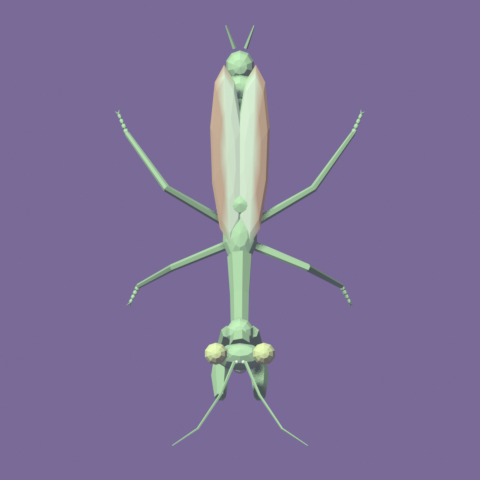
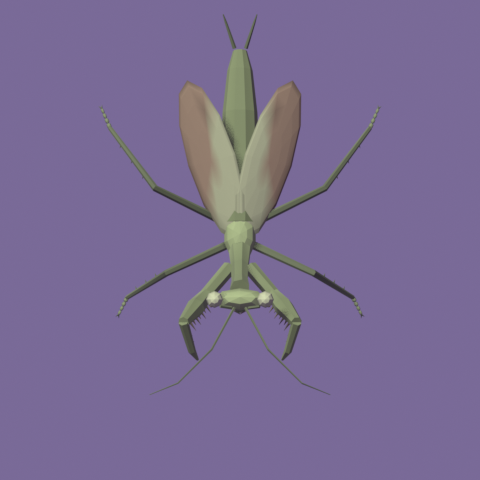
Critters v3: Orion-accurate female rainbow stag beetle, scarier realistic mantis
- Beetle matched to photos of Orion: short black mandibles, black spiny legs, dark bronze
  pronotum with green edges, deep metallic green shell with a lengthwise magenta/teal streak
- Mantis: muted olive/brown, threat pose with raised spread forelegs and dark spines, angular
  head with small hard eyes and brow ridges, veined half-lifted wings, smooth ringed abdomen

diff --git a/ArtSource/build_critters.py b/ArtSource/build_critters.py
@@ -190,136 +190,161 @@ class Critter:
 
 
 def rainbow_stag_beetle():
-    """Phalacrognathus muelleri (male), like Orion. Metallic shell that runs green -> gold -> copper ->
-    red -> violet toward the head, with an iridescent shift across the curve of every plate."""
+    """Phalacrognathus muelleri, female, matched to photos of Orion: short black mandibles and black legs,
+    a bronze-copper pronotum with green edges, and wing covers that are metallic green at the rim with
+    magenta-pink and teal-blue streaks running lengthwise down the middle, shifting with the light."""
     c = Critter("Critter_RainbowStagBeetle")
 
-    def irid(base_shift=0.0, sat=0.9, dark_seam=False):
-        def color(p, n):
-            t = min(1.0, max(0.0, (p.y + 0.5) / 1.15))
-            hue = (0.34 - 0.5 * t + base_shift + 0.07 * n.x * (1 if p.x >= 0 else -1) - 0.05 * n.z) % 1.0
-            val = 0.55 + 0.4 * max(0.0, n.z) + 0.1 * abs(n.x)
-            if dark_seam and abs(p.x) < 0.012:
-                val *= 0.55
-            r, g, b = colorsys.hsv_to_rgb(hue, sat, min(1.0, val))
-            return (r, g, b)
-        return color
+    def hsv(h, s_, v):
+        return colorsys.hsv_to_rgb(h % 1.0, max(0.0, min(1.0, s_)), max(0.0, min(1.0, v)))
 
-    shell = irid(dark_seam=True)
-    plate = irid(0.0, 0.85)
-    leg = irid(-0.05, 0.75)
-    underside = rgb("#2a1b33")
+    def elytra(p, n):
+        side = abs(p.x) / 0.245                       # 0 at the seam, 1 at the rim
+        light = 0.28 + 0.62 * max(0.0, n.z) ** 1.5    # deep metallic: dark sides, bright top
+        if side > 0.82 or p.y < -0.42:                # green rim all the way round
+            return hsv(0.34 + 0.02 * n.x, 0.95, light)
+        # one strong magenta streak with a teal-blue edge on a green shell, running lengthwise
+        band = side + 0.05 * math.sin(p.y * 7)
+        stops = [(0.0, 0.32, 0.9), (0.2, 0.36, 0.95), (0.34, 0.52, 0.9), (0.46, 0.88, 0.85),
+                 (0.62, 0.92, 0.8), (0.74, 0.4, 0.95), (1.0, 0.34, 0.95)]
+        for (a, ha, sa), (b, hb, sb) in zip(stops, stops[1:]):
+            if a <= band <= b:
+                t = (band - a) / (b - a)
+                dh = ((hb - ha + 0.5) % 1.0) - 0.5
+                return hsv(ha + dh * t, sa + (sb - sa) * t, light)
+        return hsv(0.33, 0.85, light)
 
-    # wing covers (elytra): two halves with a seam, rounded at the back, a little flattened on top
-    c.blob((0, -0.14, 0.16), (0.245, 0.37, 0.13), shell, M_SHINY, seg=18, rings=10)        # one domed shell
-    c.tube([(0, 0.2, 0.25), (0, -0.2, 0.29), (0, -0.46, 0.18)], 0.008, irid(0.02, 0.9, False), M_SHINY)   # the seam
-    c.blob((0, -0.12, 0.09), (0.23, 0.36, 0.07), underside, seg=12, rings=6)              # belly
-    # scutellum: the little triangle between the wing covers and the pronotum
-    c.blob((0, 0.17, 0.235), (0.04, 0.035, 0.012), plate, M_SHINY, seg=6, rings=4)
-    # pronotum: broad, rounded at the sides, with a thin raised rim
-    c.blob((0, 0.27, 0.19), (0.235, 0.12, 0.095), plate, M_SHINY, seg=16, rings=8)
-    c.tube([(-0.2, 0.22, 0.17), (-0.235, 0.28, 0.18), (-0.21, 0.35, 0.17)], 0.01, plate, M_SHINY)
-    c.tube([(0.2, 0.22, 0.17), (0.235, 0.28, 0.18), (0.21, 0.35, 0.17)], 0.01, plate, M_SHINY)
-    # head: wide and flat, cheeks flaring behind the eyes, a ridge (canthus) over each eye
-    c.blob((0, 0.44, 0.17), (0.225, 0.11, 0.072), plate, M_SHINY, seg=14, rings=8)
+    def pronotum(p, n):
+        light = 0.4 + 0.55 * max(0.0, n.z)
+        edge = abs(p.x) > 0.17
+        return hsv(0.3 if edge else 0.08 + 0.03 * n.x, 0.9 if edge else 0.7, light * 0.8)   # dark bronze, green edges
+
+    def head(p, n):
+        return hsv(0.22 + 0.05 * n.x, 0.85, 0.25 + 0.5 * max(0.0, n.z))                # green-gold
+
+    black = (0.05, 0.045, 0.05)
+    sheen_black = lambda p, n: tuple(0.04 + 0.12 * max(0.0, n.z) for _ in range(3))
+
+    # wing covers: one domed oval with a raised seam, slightly squarer shoulders than the back
+    c.blob((0, -0.12, 0.16), (0.245, 0.38, 0.13), elytra, M_SHINY, seg=20, rings=12)
+    c.tube([(0, 0.2, 0.255), (0, -0.2, 0.29), (0, -0.48, 0.17)], 0.007, lambda p, n: hsv(0.33, 0.9, 0.5), M_SHINY)
+    c.blob((0, -0.12, 0.08), (0.23, 0.36, 0.07), black, seg=12, rings=6)                # dark belly
+    c.blob((0, 0.17, 0.235), (0.035, 0.03, 0.01), pronotum, M_SHINY, seg=6, rings=4)     # scutellum
+    # pronotum: wide, rounded, a touch narrower than the shell
+    c.blob((0, 0.28, 0.18), (0.215, 0.12, 0.09), pronotum, M_SHINY, seg=16, rings=8)
+    # head: small and flat (females have a small head), eyes at the sides
+    c.blob((0, 0.42, 0.15), (0.13, 0.08, 0.055), head, M_SHINY, seg=12, rings=6)
     for sx in (1, -1):
-        c.blob((sx * 0.17, 0.41, 0.16), (0.06, 0.07, 0.055), plate, M_SHINY)          # cheek flare
-        c.blob((sx * 0.185, 0.47, 0.175), (0.038, 0.04, 0.036), (0.06, 0.04, 0.07), M_SHINY)   # eye
-        c.tube([(sx * 0.13, 0.5, 0.2), (sx * 0.2, 0.48, 0.21), (sx * 0.22, 0.44, 0.2)], 0.012, plate, M_SHINY)  # canthus
-        # mandibles: long, sweeping forward and out, then curling up and in; a row of inner teeth
-        mand = [(sx * 0.07, 0.5, 0.165), (sx * 0.15, 0.6, 0.18), (sx * 0.18, 0.72, 0.21), (sx * 0.15, 0.84, 0.27),
-                (sx * 0.08, 0.92, 0.36), (sx * 0.03, 0.93, 0.42)]
-        c.tube(mand, [0.05, 0.045, 0.038, 0.03, 0.02, 0.008], irid(0.04, 0.9), M_SHINY, sides=7)
-        for (y, z, size) in ((0.66, 0.2, 0.03), (0.76, 0.23, 0.028), (0.85, 0.28, 0.022)):
-            x = sx * (0.14 if y < 0.7 else 0.13 if y < 0.8 else 0.1)
-            c.spike((x, y, z), (x - sx * size * 1.6, y + size * 0.4, z + size * 0.3), 0.014, irid(0.04, 0.9), M_SHINY)
-        # elbowed antenna: long first segment, then bead segments, then a 3-leaf club
-        base = Vector((sx * 0.16, 0.5, 0.19))
-        elbow = base + Vector((sx * 0.1, 0.08, 0.05))
-        c.tube([base, elbow], [0.012, 0.01], leg, M_SHINY)
+        c.blob((sx * 0.125, 0.43, 0.15), (0.03, 0.032, 0.03), black, M_SHINY)          # eyes
+        # short, stout black mandibles curving inward, with a tooth
+        c.tube([(sx * 0.06, 0.48, 0.14), (sx * 0.1, 0.55, 0.15), (sx * 0.07, 0.61, 0.16), (sx * 0.02, 0.63, 0.16)],
+               [0.03, 0.026, 0.018, 0.008], sheen_black, M_SHINY, sides=6)
+        c.spike((sx * 0.09, 0.56, 0.15), (sx * 0.05, 0.58, 0.17), 0.012, sheen_black, M_SHINY)
+        # black elbowed antennae with a small club
+        base = Vector((sx * 0.1, 0.47, 0.17))
+        elbow = base + Vector((sx * 0.07, 0.07, 0.04))
+        c.tube([base, elbow], [0.009, 0.008], sheen_black)
         tip = elbow
         for k in range(4):
-            nxt = tip + Vector((sx * 0.025, 0.022, 0.005))
-            c.blob(tip.lerp(nxt, 0.5), (0.01, 0.014, 0.01), leg, M_SHINY, seg=6, rings=4)
+            nxt = tip + Vector((sx * 0.02, 0.02, 0.0))
+            c.blob(tip.lerp(nxt, 0.5), (0.008, 0.011, 0.008), sheen_black, seg=6, rings=4)
             tip = nxt
-        for k in range(3):   # lamellae: the fanned club
-            c.blob(tip + Vector((sx * (0.012 + k * 0.016), 0.012, 0)), (0.008, 0.026, 0.02), leg, M_SHINY,
-                   seg=6, rings=4, rot=(0, 0, sx * 25))
-
-    # legs: front ones dig (toothed tibia), middle/hind ones have small spines; each ends in tarsi + claws
+        for k in range(3):
+            c.blob(tip + Vector((sx * (0.01 + k * 0.013), 0.01, 0)), (0.007, 0.02, 0.015), sheen_black, seg=6, rings=4,
+                   rot=(0, 0, sx * 25))
+    # black legs: front tibiae toothed for digging, spines on the others
     for sx in (1, -1):
-        c.jointed_leg([(sx * 0.13, 0.25, 0.11), (sx * 0.24, 0.32, 0.13), (sx * 0.33, 0.4, 0.06), (sx * 0.36, 0.5, 0.0)],
-                      [0.03, 0.032, 0.024, 0.016], leg, M_SHINY, foot=(sx * 0.02, 0.1, -0.005),
-                      spines=[(2, 4, 0.03, (sx * 1, 0.3, 0))])
-        c.jointed_leg([(sx * 0.15, 0.02, 0.1), (sx * 0.29, 0.05, 0.14), (sx * 0.4, 0.0, 0.05), (sx * 0.45, -0.04, 0.0)],
-                      [0.03, 0.03, 0.022, 0.015], leg, M_SHINY, foot=(sx * 0.06, -0.08, -0.005),
-                      spines=[(2, 2, 0.018, (sx * 1, -0.2, 0))])
-        c.jointed_leg([(sx * 0.15, -0.16, 0.1), (sx * 0.29, -0.2, 0.14), (sx * 0.38, -0.32, 0.05), (sx * 0.42, -0.4, 0.0)],
-                      [0.03, 0.03, 0.022, 0.015], leg, M_SHINY, foot=(sx * 0.04, -0.1, -0.005),
-                      spines=[(2, 2, 0.018, (sx * 1, -0.2, 0))])
+        c.jointed_leg([(sx * 0.12, 0.26, 0.11), (sx * 0.23, 0.33, 0.12), (sx * 0.31, 0.42, 0.05), (sx * 0.33, 0.52, 0.0)],
+                      [0.028, 0.03, 0.022, 0.014], sheen_black, M_SHINY, foot=(sx * 0.02, 0.09, -0.005),
+                      spines=[(2, 5, 0.03, (sx * 1, 0.3, 0))])
+        c.jointed_leg([(sx * 0.15, 0.02, 0.1), (sx * 0.28, 0.06, 0.13), (sx * 0.39, 0.0, 0.05), (sx * 0.44, -0.05, 0.0)],
+                      [0.028, 0.028, 0.02, 0.013], sheen_black, M_SHINY, foot=(sx * 0.06, -0.08, -0.005),
+                      spines=[(2, 3, 0.02, (sx * 1, -0.2, 0))])
+        c.jointed_leg([(sx * 0.15, -0.16, 0.1), (sx * 0.28, -0.22, 0.13), (sx * 0.37, -0.34, 0.05), (sx * 0.41, -0.43, 0.0)],
+                      [0.028, 0.028, 0.02, 0.013], sheen_black, M_SHINY, foot=(sx * 0.04, -0.1, -0.005),
+                      spines=[(2, 3, 0.02, (sx * 1, -0.2, 0))])
     return c.finish()
 
 
-def praying_mantis(name="Critter_Mantis", body="#6fbf5e", light="#a9df8f", eye="#a9d85a", edge="#8a6a3f"):
-    """Chinese mantis (Tenodera sinensis) style: triangular head with corner eyes, long neck (prothorax),
-    spiny folded grabbing forelegs, leathery wing covers with a brown leading edge over a segmented
-    abdomen, long thin walking legs with feet, and cerci at the tail."""
+def praying_mantis(name="Critter_Mantis"):
+    """Chinese mantis in a threat pose: reared up on its walking legs, raptorial forelegs raised and
+    spread with dark spines showing, wings half-lifted. Muted olive-green and brown, angular head,
+    small hard eyes, veined wing covers. Meant to look a little scary, not cute."""
     c = Critter(name)
-    body, light, eye, edge = rgb(body), rgb(light), rgb(eye), rgb(edge)
-    dark = (0.08, 0.1, 0.06)
+    olive, olive_dk, tan, brown, spine = rgb("#5a7230"), rgb("#3b4a22"), rgb("#7d8a4a"), rgb("#5e4529"), rgb("#2a2416")
 
-    def shaded(col):
+    def shaded(col, dark=0.5):
         def color(p, n):
-            k = 0.78 + 0.28 * max(0.0, n.z)
+            k = dark + (1.05 - dark) * max(0.0, n.z) + 0.1 * abs(n.x)
             return tuple(min(1.0, ch * k) for ch in col)
         return color
 
-    b = shaded(body)
-    # abdomen: 7 segments, widest in the middle, drooping slightly toward the tip
-    c.segmented((0, -0.08, 0.27), (0, -0.66, 0.2), (0.07, 0.05), (0.06, 0.045), 7, b, droop=0.02)
-    c.segmented((0, -0.08, 0.27), (0, -0.38, 0.26), (0.09, 0.085), (0.075, 0.07), 3, b)
-    for sx in (1, -1):   # cerci: two little tail feelers
-        c.tube([(sx * 0.02, -0.68, 0.19), (sx * 0.05, -0.76, 0.21)], [0.008, 0.003], b)
-    # wing covers (tegmina): long and narrow, folded flat over the back, brown along the outer edge
+    b = shaded(olive)
+    bd = shaded(olive_dk, 0.45)
+    # abdomen: one smooth tapering body, with thin dark rings marking the 7 segments
+    c.tube([(0, -0.06, 0.3), (0, -0.25, 0.28), (0, -0.45, 0.25), (0, -0.6, 0.21), (0, -0.67, 0.19)],
+           [0.06, 0.07, 0.062, 0.045, 0.025], b, sides=10)
+    for k in range(1, 7):
+        t = k / 7
+        y = -0.06 - 0.61 * t
+        z = 0.3 - 0.11 * t
+        r = 0.06 + 0.01 * math.sin(t * math.pi) - 0.035 * t * t
+        c.tube([(0, y + 0.006, z), (0, y - 0.006, z)], r + 0.004, bd, sides=10)
+    for sx in (1, -1):
+        c.tube([(sx * 0.02, -0.68, 0.19), (sx * 0.05, -0.77, 0.21), (sx * 0.06, -0.8, 0.22)], [0.008, 0.005, 0.002], bd)
+    # wing covers half-lifted and spread (threat display), with veins and a brown leading edge
     for sx in (1, -1):
         def wing(p, n, sx=sx):
-            outer = abs(p.x) > 0.055
-            return edge if outer else (light if n.z > 0.5 else body)
-        c.blob((sx * 0.045, -0.3, 0.335), (0.06, 0.32, 0.018), wing, rot=(-4, 0, sx * 2), seg=10, rings=6)
-    # thorax that the legs hang from
-    c.blob((0, -0.02, 0.27), (0.065, 0.11, 0.06), b)
-    # long neck (prothorax), rising toward the head, with a bump where the forelegs attach
-    c.tube([(0, 0.06, 0.29), (0, 0.2, 0.37), (0, 0.32, 0.47), (0, 0.38, 0.53)], [0.045, 0.035, 0.032, 0.038], b, sides=7)
-    c.blob((0, 0.33, 0.48), (0.05, 0.05, 0.04), b)
-    # head: wide triangle, eyes on the top corners, mouth at the bottom point
-    c.blob((0, 0.42, 0.6), (0.09, 0.045, 0.06), b, rot=(25, 0, 0), seg=10, rings=6)
-    c.blob((0, 0.45, 0.55), (0.03, 0.03, 0.035), shaded(light))          # mouth parts
+            outer = abs(p.x) > 0.1
+            vein = (abs(p.x) * 40) % 1.0 < 0.12 or (abs(p.y) * 25) % 1.0 < 0.08
+            base = brown if outer else tan
+            k = 0.5 + 0.4 * max(0.0, n.z)
+            col = tuple(ch * (0.7 if vein else 1.0) * k for ch in base)
+            return col
+        c.blob((sx * 0.1, -0.28, 0.37), (0.09, 0.3, 0.012), wing, rot=(-10, sx * 18, sx * 14), seg=12, rings=8)
+    # thorax and the long neck rising steeply (reared up)
+    c.blob((0, -0.02, 0.3), (0.06, 0.1, 0.055), b)
+    neck = [(0, 0.04, 0.33), (0, 0.1, 0.45), (0, 0.15, 0.58), (0, 0.18, 0.66)]
+    c.tube(neck, [0.04, 0.032, 0.03, 0.036], b, sides=7)
+    c.tube([(-0.035, 0.1, 0.45), (0.035, 0.1, 0.45)], 0.008, bd)          # ridge at the leg joint
+    # head: sharp triangle, eyes on the top corners, small and hard, mandibles at the point
+    hc = Vector((0, 0.22, 0.75))
+    c.blob(hc, (0.095, 0.04, 0.05), b, rot=(10, 0, 0), seg=8, rings=5)
+    c.tube([hc + Vector((0, 0.02, -0.03)), hc + Vector((0, 0.035, -0.09))], [0.03, 0.012], bd, sides=5)   # face to jaw
     for sx in (1, -1):
-        c.blob((sx * 0.085, 0.41, 0.64), (0.042, 0.04, 0.05), eye)       # compound eyes
-        c.blob((sx * 0.1, 0.435, 0.645), (0.012, 0.01, 0.014), dark)    # pseudopupil
-        c.blob((sx * 0.012, 0.44, 0.66), (0.007, 0.007, 0.007), light)  # simple eyes (ocelli)
-        c.tube([(sx * 0.02, 0.44, 0.67), (sx * 0.07, 0.56, 0.8), (sx * 0.15, 0.68, 0.88), (sx * 0.24, 0.74, 0.9)],
-               [0.006, 0.005, 0.004, 0.002], b)                          # long thin antennae
-        # raptorial foreleg: long coxa down-forward, thick spiny femur up, spiny tibia folded back down
-        cox0, cox1 = Vector((sx * 0.04, 0.33, 0.47)), Vector((sx * 0.07, 0.43, 0.33))
-        fem1 = Vector((sx * 0.07, 0.56, 0.45))
-        tib1 = Vector((sx * 0.065, 0.47, 0.38))
-        c.tube([cox0, cox1], [0.028, 0.024], b, sides=6)
-        c.blob(cox0.lerp(cox1, 0.55) + Vector((-sx * 0.02, 0, 0)), (0.012, 0.016, 0.014), dark)   # coxa eyespot
-        c.tube([cox1, cox1.lerp(fem1, 0.4) + Vector((0, 0.0, 0.0)), fem1], [0.024, 0.032, 0.02], b, sides=6)
-        c.tube([fem1, tib1, tib1 + Vector((0, -0.03, -0.03))], [0.018, 0.014, 0.008], b, sides=5)
-        for k in range(5):      # spines along the inside of the femur
-            t = 0.25 + k * 0.14
-            base = cox1.lerp(fem1, t)
-            c.spike(base + Vector((-sx * 0.012, -0.012, -0.012)), base + Vector((-sx * 0.02, -0.04, -0.03)), 0.006, light)
-        for k in range(3):      # and the tibia
-            base = fem1.lerp(tib1, 0.3 + k * 0.25)
-            c.spike(base, base + Vector((-sx * 0.012, 0.02, 0.022)), 0.005, light)
-        # walking legs: long and thin, knees up high, with feet
-        c.jointed_leg([(sx * 0.05, 0.02, 0.25), (sx * 0.24, 0.1, 0.36), (sx * 0.36, 0.16, 0.04)],
-                      [0.016, 0.013, 0.009], b, foot=(sx * 0.03, 0.06, -0.01), foot_segments=4, claw=0.014)
-        c.jointed_leg([(sx * 0.05, -0.06, 0.25), (sx * 0.26, -0.18, 0.36), (sx * 0.4, -0.38, 0.04)],
-                      [0.016, 0.013, 0.009], b, foot=(sx * 0.03, -0.07, -0.01), foot_segments=4, claw=0.014)
+        eye_c = hc + Vector((sx * 0.09, 0.0, 0.03))
+        c.blob(eye_c, (0.03, 0.03, 0.04), shaded(rgb("#8a9a54"), 0.6), seg=8, rings=6)
+        c.blob(eye_c + Vector((sx * 0.012, 0.024, 0.0)), (0.006, 0.004, 0.012), spine)          # narrow pseudopupil
+        c.tube([hc + Vector((sx * 0.03, 0.03, 0.035)), hc + Vector((sx * 0.07, 0.025, 0.06))], 0.006, bd)   # brow ridge
+        c.spike(hc + Vector((sx * 0.015, 0.035, -0.09)), hc + Vector((sx * 0.0, 0.05, -0.12)), 0.008, spine)  # jaws
+        c.tube([hc + Vector((sx * 0.02, 0.03, 0.05)), hc + Vector((sx * 0.1, 0.18, 0.2)),
+                hc + Vector((sx * 0.22, 0.3, 0.22)), hc + Vector((sx * 0.32, 0.34, 0.18))],
+               [0.005, 0.004, 0.003, 0.0015], bd)                                            # long antennae
+        # raised raptorial forelegs, spread wide, jaws of the claws open
+        cox0 = Vector((sx * 0.035, 0.1, 0.46))
+        cox1 = Vector((sx * 0.12, 0.2, 0.52))
+        fem1 = Vector((sx * 0.2, 0.3, 0.74))
+        tib1 = Vector((sx * 0.17, 0.4, 0.66))
+        claw = tib1 + Vector((sx * -0.02, 0.03, -0.05))
+        c.tube([cox0, cox1], [0.026, 0.024], b, sides=6)
+        c.tube([cox1, cox1.lerp(fem1, 0.45), fem1], [0.024, 0.034, 0.02], b, sides=7)
+        c.tube([fem1, tib1, claw], [0.018, 0.014, 0.005], b, sides=6)
+        inner = Vector((-sx * 0.6, 0.6, -0.3)).normalized()
+        for k in range(7):   # long dark spines down the femur
+            base = cox1.lerp(fem1, 0.2 + k * 0.11)
+            ln = 0.035 if k % 2 == 0 else 0.022
+            c.spike(base + inner * 0.015, base + inner * (0.015 + ln) + Vector((0, 0.01, 0.005)), 0.006, spine)
+        for k in range(4):   # and the tibia
+            base = fem1.lerp(tib1, 0.25 + k * 0.2)
+            c.spike(base, base + Vector((-sx * 0.012, -0.02, -0.025)), 0.005, spine)
+        c.blob(cox0.lerp(cox1, 0.6) + Vector((-sx * 0.018, 0, -0.006)), (0.01, 0.014, 0.012), spine)   # coxa eyespot
+        # walking legs: long, thin, knees high, planted wide
+        c.jointed_leg([(sx * 0.05, 0.02, 0.28), (sx * 0.26, 0.12, 0.42), (sx * 0.4, 0.2, 0.02)],
+                      [0.015, 0.012, 0.008], bd, foot=(sx * 0.03, 0.06, -0.01), foot_segments=4, claw=0.012,
+                      spines=[(1, 3, 0.012, (sx * 0.2, -1, 0))])
+        c.jointed_leg([(sx * 0.05, -0.06, 0.28), (sx * 0.3, -0.18, 0.42), (sx * 0.46, -0.4, 0.02)],
+                      [0.015, 0.012, 0.008], bd, foot=(sx * 0.03, -0.07, -0.01), foot_segments=4, claw=0.012,
+                      spines=[(1, 3, 0.012, (sx * 0.2, 1, 0))])
     return c.finish()
 
 
@@ -478,7 +503,7 @@ for obj in objs:
     center = obj.location + Vector((0, 0, 0.25))
     views = [("q", 35, 25, 1.9), ("side", 90, 8, 1.9)]
     if obj.name in ("Critter_RainbowStagBeetle", "Critter_Mantis"):   # the detailed ones get a closer look
-        views += [("top", 0, 89, 1.7), ("front", 0, 18, 1.2), ("close", 140, 30, 1.0)]
+        views += [("top", 0, 89, 1.7), ("front", 0, 12, 1.4), ("close", 140, 22, 1.1)]
     for label, yaw, pitch, scale in views:
         a, p = math.radians(yaw), math.radians(pitch)
         cam.location = center + Vector((math.sin(a) * math.cos(p), math.cos(a) * math.cos(p), math.sin(p))) * 5
